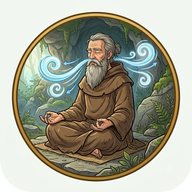
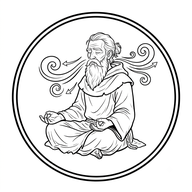
Add files via upload

diff --git a/sw.js b/sw.js
@@ -1,4 +1,4 @@
-const CACHE='souffle-v3';
+const CACHE='souffle-v4';
 const ASSETS=['./index.html','./manifest.json','./icon-192.png','./icon-512.png'];
 self.addEventListener('install',e=>{e.waitUntil(caches.open(CACHE).then(c=>c.addAll(ASSETS)).then(()=>self.skipWaiting()));});
 self.addEventListener('activate',e=>{e.waitUntil(caches.keys().then(ks=>Promise.all(ks.filter(k=>k!==CACHE).map(k=>caches.delete(k)))).then(()=>self.clients.claim()));});